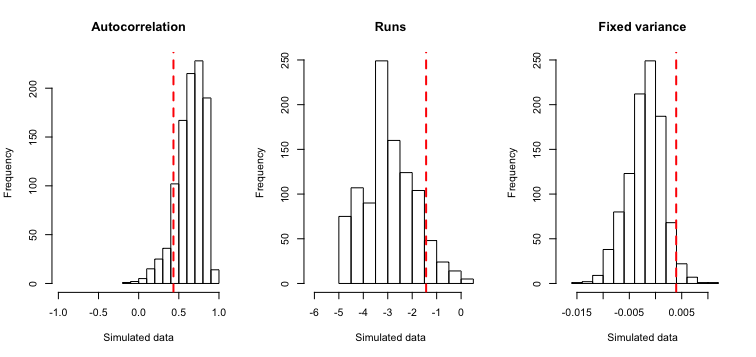
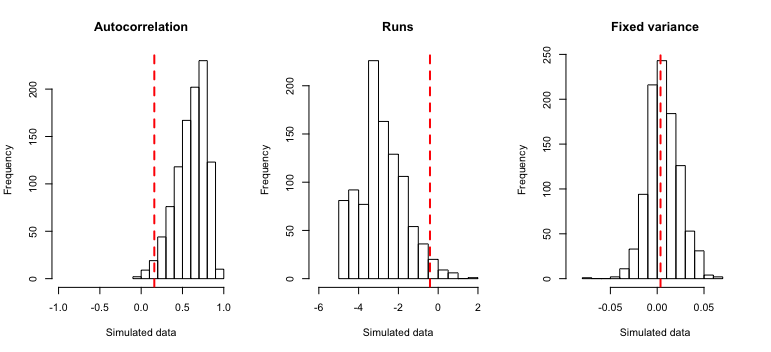
updating the data and README file

diff --git a/README.md b/README.md
@@ -24,19 +24,19 @@ We are interested in analyzing the evolution of element length in the conodont P
 The data (Jones.2009.element.length) is already a paleoTS object. We first plot the data and run the fot3modells function from the PaleoTS package to check the relatice fit of the stasis, random walk and directional trend model to the data.
 
 ```
-plot(Jones.2009.element.length)
+plot(element.length)
 ```
 ![adequate.DT](https://github.com/klvoje/adePEM/blob/master/extra/phenetic.evolution.element.length.png)
 
 ```
-fit3models(Jones.2009.element.length, pool=TRUE)
+fit3models(element.length, pool=TRUE)
 
 Comparing 3 models [n = 31, method = Joint]
 
            logL K      AICc Akaike.wt
-GRW    25.10953 3 -43.33018     0.257
-URW    24.85294 2 -45.27732     0.680
-Stasis 22.47400 2 -40.51943     0.063
+GRW    25.38445 3 -43.88002     0.262
+URW    25.12370 2 -45.81882     0.690
+Stasis 22.47400 2 -40.51943     0.049
 ```
 
 The plot shows a trend in the data, but it is the random walk (URW) model that has the best fit to the data according to AICc. However, the difference is small (<2 AICc units) relative to he direcional trend model (GRW). 
@@ -45,11 +45,11 @@ Let's investigate if the random walk represents an adequate statistical descript
 
 The first thing we need to do is to estimate the step variance of the random walk model from the real data. This 'observed' step variance is needed to simulate a large number of time series where the trait evolves according to a random walk. Test statistics calculated on these simulate data will then be compared to the test statistics calculated on the real data.   
 ```
-# Estimating the vstep parameter from the data:
-vstep<-mle.URW(Jones.2009.element.length)[1]
+# Estimate the vstep parameter from the data:
+vstep<-mle.URW(element.length)[1]
 
 # Run adequasy test for the random walk model:
-fit3adequasy.BM(Jones.2009.element.length, vstep=vstep)
+fit3adequasy.BM(element.length, vstep=vstep)
 
 
 $info
@@ -59,10 +59,30 @@ confidense level    0.95
 
 $summary
            estimate  min.sim max.sim p-value Result
-auto.corr  -0.28775 -0.60974 0.30012   0.478 PASSED
-runs.test   1.09003 -2.37144 3.84622   0.512 PASSED
-slope.test -0.01112 -0.04811  0.0208   0.748 PASSED
+auto.corr    -0.318 -0.69919 0.38265   0.436 PASSED
+runs.test   1.09003 -2.73719 3.34277   0.526 PASSED
+slope.test  0.01199  -0.0217 0.04293   0.618 PASSED
 ```
 
-![adequate.DT](https://github.com/klvoje/adePEM/blob/master/extra/adequast_BM.png)
+![adequate.DT](https://github.com/klvoje/adePEM/blob/master/extra/adequasy.BM.png)
 
+
+```
+# Estimate the mstep and vstep parameter from the data:
+mstep<-mle.GRW(element.length)[1]
+vstep<-mle.GRW(element.length)[2]
+
+# Run adequasy test for the directional trend model:
+fit3adequasy.BM(element.length, vstep=vstep)
+
+$info
+                   Value
+replications     1000.00
+confidense level    0.95
+
+$summary
+           estimate  min.sim max.sim p-value Result
+auto.corr   0.15903 -0.07639 0.93098   0.034 FAILED
+runs.test  -0.41179 -4.93166 1.71372   0.042 FAILED
+slope.test  0.00355 -0.07232 0.06886   0.862 PASSED
+```
